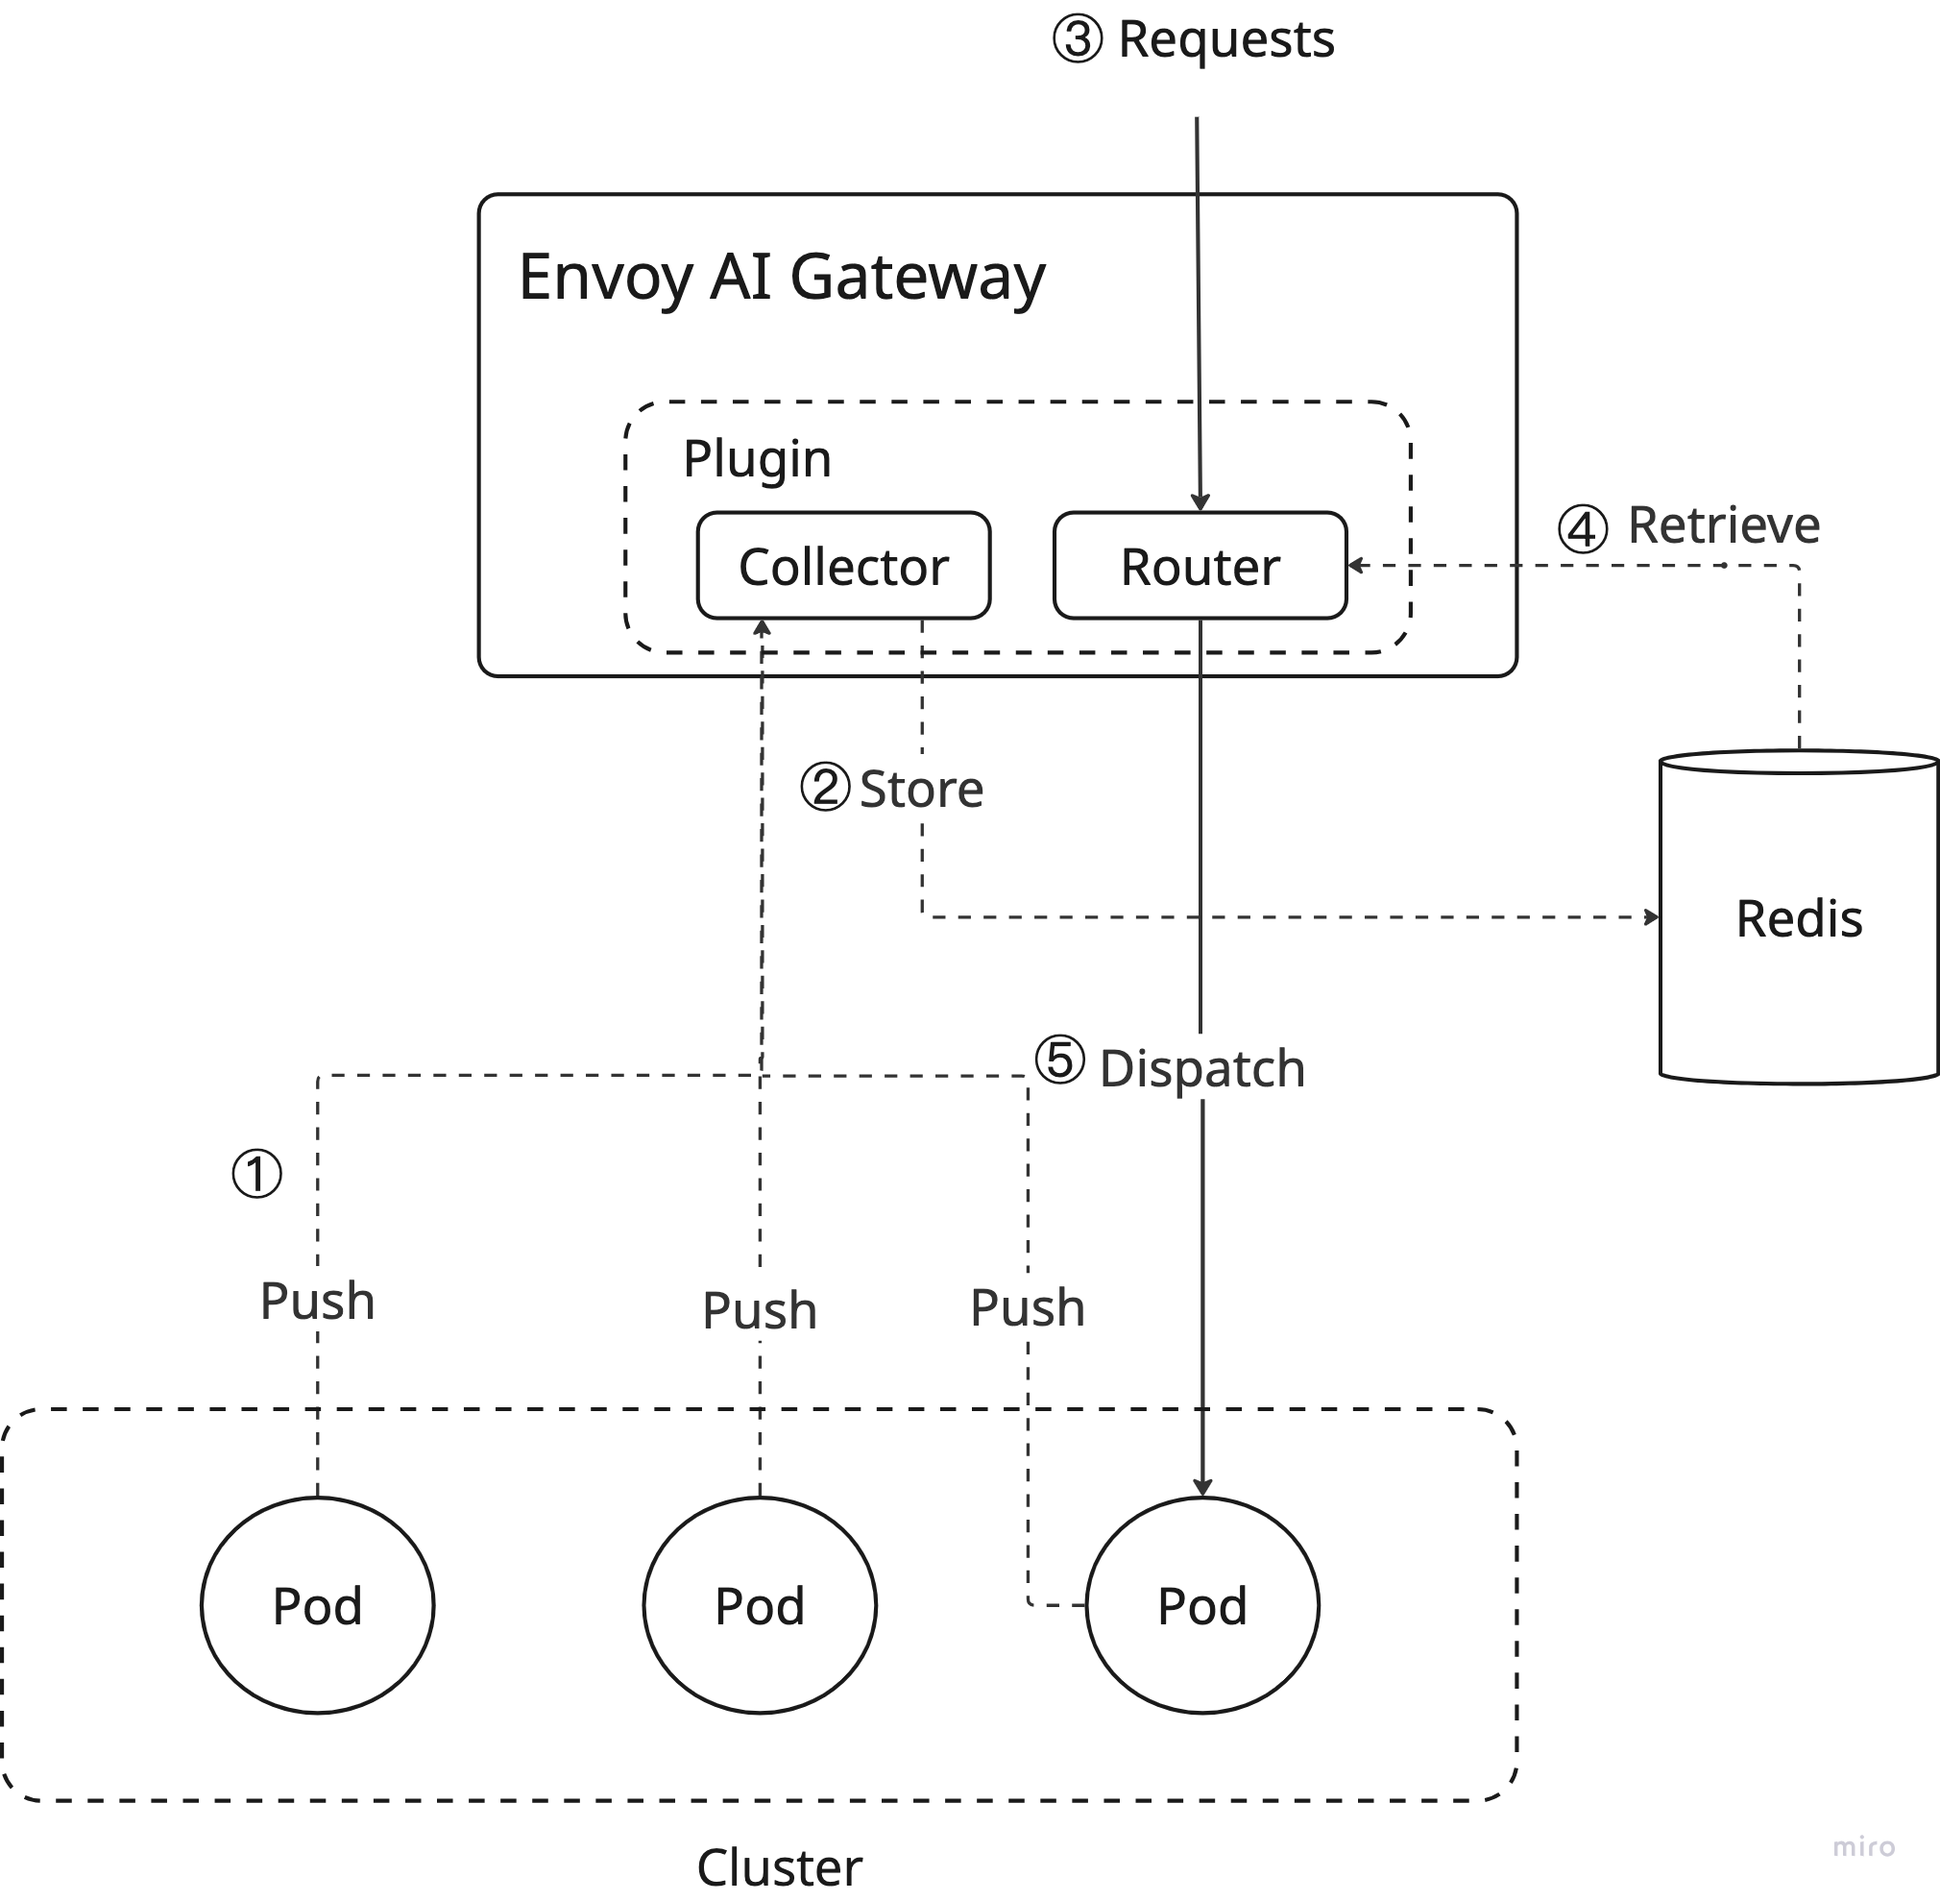
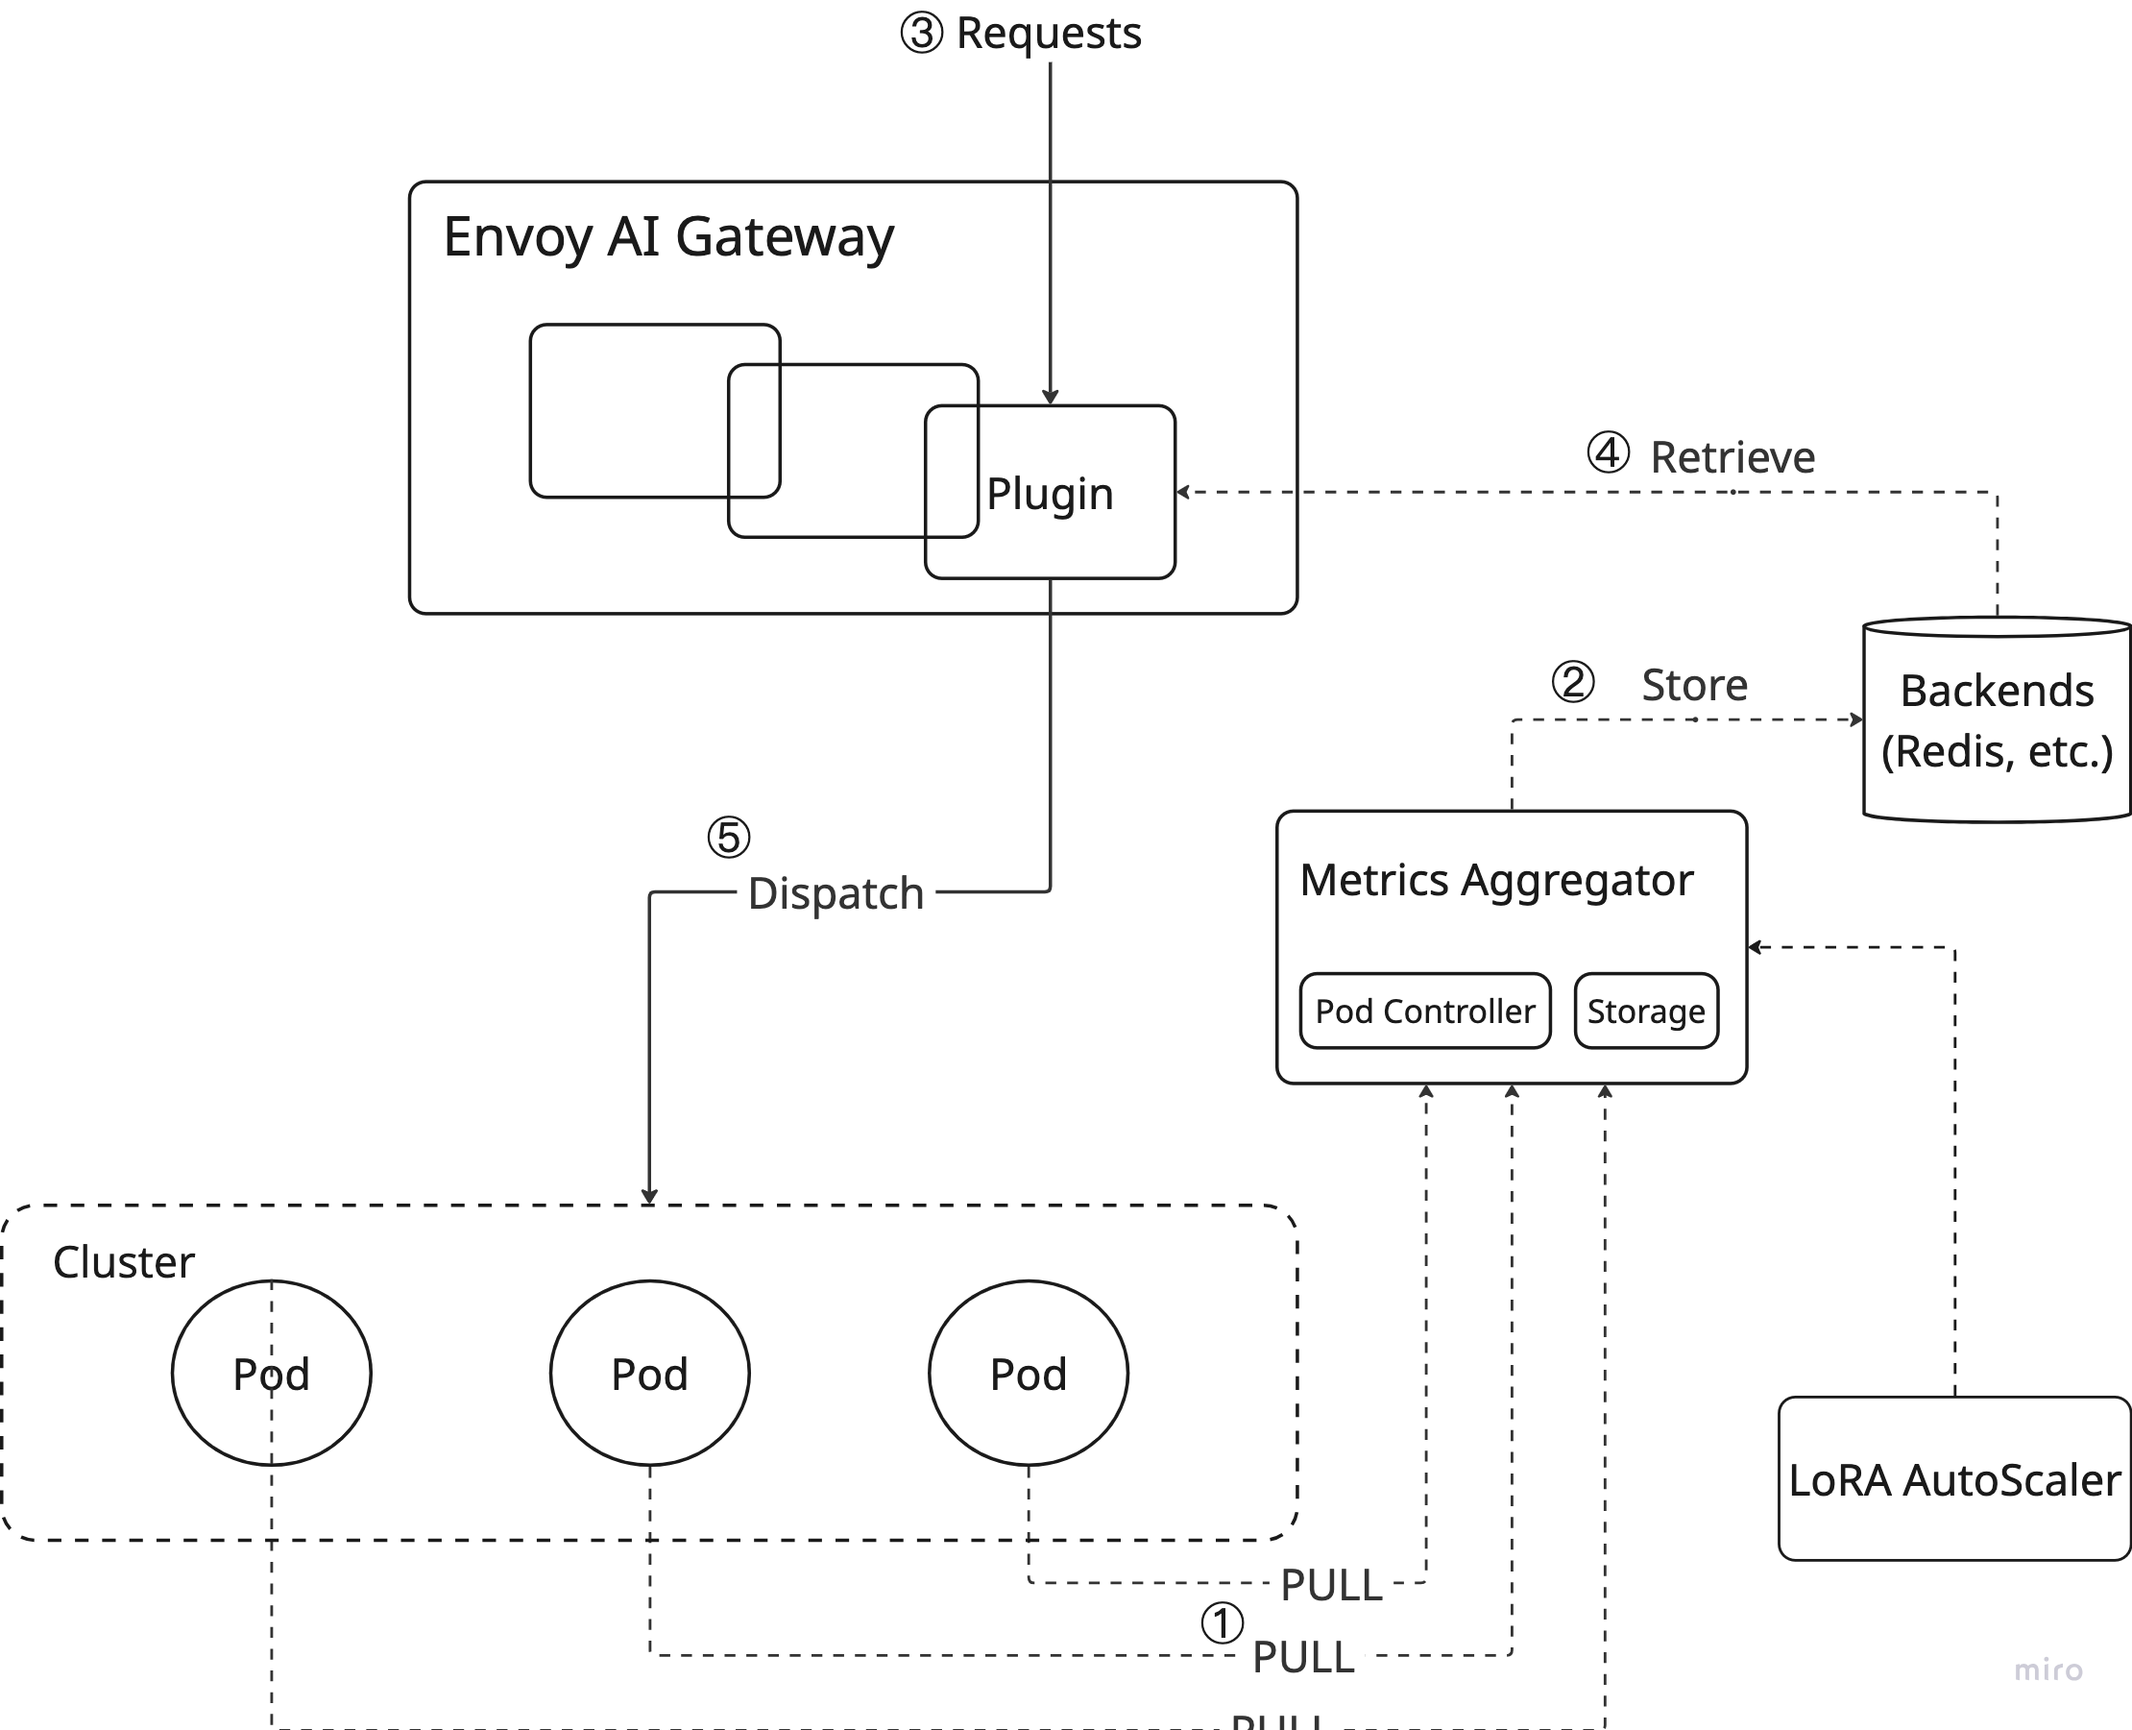
Udpate

diff --git a/docs/proposals/376-metric-aggregagor/README.md b/docs/proposals/376-metric-aggregagor/README.md
@@ -85,10 +85,9 @@ List the specific goals of the Proposal. What is it trying to achieve? How will 
 know that this has succeeded?
 -->
 
-- A simple implementation with least busy scheduling algorithm
+- A simple implementation with least-latency scheduling algorithm
 - Extensible with different consumers in the cluster, like the Lora autoscaler or the ai gateway
 - Metrics visualization support, like Grafana
-- Metric management support, especially the gc policy
 
 ### Non-Goals
 
@@ -97,7 +96,7 @@ What is out of scope for this Proposal? Listing non-goals helps to focus discuss
 and make progress.
 -->
 
-- Different scheduling algorithm implementations in ai gateway
+- Different scheduling algorithm implementations in ai gateway, like prefix-cache aware
 - LoRA aware scheduling implementation, will be left to another KEP
 - Performance consideration in big clusters should be left to the Beta level
 
@@ -123,7 +122,7 @@ bogged down.
 
 #### Story 1
 
-As a user, I hope my LLM request could be routed to the least-busy instance, so that I can get the result as soon as possible.
+As a user, I hope my LLM request could be routed to the least-latency instance, so that I can get the result as soon as possible.
 
 #### Story 2
 
@@ -138,7 +137,8 @@ Go in to as much detail as necessary here.
 This might be a good place to talk about core concepts and how they relate.
 -->
 
-Metrics-based routing should meet the baseline requirements: even the metrics are unavailable or outdated, the system should still be able to work, despite the fact that the request response may be slower. For example, metrics-based lora scheduling is unfit here because once the metric indicates the wrong instance, we may hit 500 server error, it's unacceptable.
+- Metrics-based routing should meet the baseline requirements: even the metrics are unavailable or outdated, the system should still be able to work, despite the fact that the request response may be slower. For example, metrics-based lora scheduling maybe unfit here because once the metric indicates the wrong instance, we may hit 500 server error, it's unacceptable. Unless the inference engine will fetch the models dynamically.
+- Once the gateway picks the Pod for scheduling, it could happen that the Pod suddenly becomes unavailable, we should support fallback mechanism to default service routing.
 
 ### Risks and Mitigations
 
@@ -174,25 +174,40 @@ The overall flow looks like:
 
 Let's break down the flow into several steps:
 
-- Step 1: we'll collect the metrics from the inference workloads, we choose `PUSH` mode here just to put less pressure on the gateway side, or the gateway will have iterate all the Pods which obviously will lead to performance issues.
-- Step 2: the gateway plugin will parse the metrics and store them in the redis, this is for HA consideration and cache sharing. Once the instance is down, we can still retrieve the metrics from redis. And if we have multiple instances, we can share the metrics with each other via redis. Considering Envoy AI gateway already uses Redis for limit rating, we'll reuse the Redis here.
-- Step 3 & 4: Traffic comes, and the Router will retrieve the metrics from Redis and make routing decisions based on different algorithms, like queue size aware scheduling.
+- Step 1: we'll collect the metrics from the inference workloads in metrics aggregator.
+- Step 2: the aggregator will parse the metrics and store them in the redis, this is for HA consideration and cache sharing. Once the instance is down, we can still retrieve the metrics from redis. And if we have multiple instances, we can share the metrics with each other via redis. Considering Envoy AI gateway already uses Redis for limit rating, we'll reuse the Redis here.
+- Step 3 & 4: Traffic comes, the gateway plugin (we'll call it router later) will retrieve the metrics from Redis and make routing decisions based on different algorithms, like queue size aware scheduling.
 - Step 5: The router will send the request to the selected instance, and the instance will return the result to the router, return to the user finally.
-
 
 ### Additional components introduced:
 
-- Pod Sidecar: a sidecar container is necessary for each inference workload, which was introduced in Kubernetes 1.28 as alpha feature, and enabled by default in 1.29, see [details](https://kubernetes.io/blog/2023/08/25/native-sidecar-containers/). The sidecar will be responsible for collecting the metrics and pushing them to the AI gateway. Let's set the interval time to 100ms at first.
-- Redis: a Redis instance is necessary for the metrics storage and sharing, we can use the existing Redis instance in the cluster, or deploy a new one if not available.
-- Gateway Plugin: a new plugin or [DynamicLoadBalancingBackend](https://github.com/envoyproxy/ai-gateway/blob/be2b479b04bc7a219b0c8239143bfbabebdcd615/filterapi/filterconfig.go#L199-L208) specifically in Envoy AI gateway to pick the best-fit Pod endpoints. However, we may block by the upstream issue [here](https://github.com/envoyproxy/ai-gateway/issues/604), we'll work with the Envoy AI Gateway team to resolve it ASAP. Maybe the final design will impact our implementation a bit but not much I think.
+- Metrics Aggregator (MA): MA is working as the controller plane to sync the metrics, this is also one of the reason why we want to decouple it from the router, which working as a data plane. MA has several components:
+  - A Pod controller to manage the Pod lifecycle, for example, once a Pod is ready, it will add it to the internal store, and each Pod will fork a background goroutine to sync the metrics continuously, 50ms interval by default. Once the Pod is deleted, the goroutine will be stopped and removed from the store.
+  - A internal store to parse the metric results, and store it in the backend storage, like Redis.
+- Redis: a Redis instance is necessary for the metrics storage and sharing, we can use the existing Redis instance in the cluster, or deploy a new one if necessary. We should have storage interface to support different backends in the future.
+- Router: a new router or [DynamicLoadBalancingBackend](https://github.com/envoyproxy/ai-gateway/blob/be2b479b04bc7a219b0c8239143bfbabebdcd615/filterapi/filterconfig.go#L199-L208) specifically in Envoy AI gateway to pick the best-fit Pod endpoints. However, we may block by the upstream issue [here](https://github.com/envoyproxy/ai-gateway/issues/604), we'll work with the Envoy AI Gateway team to resolve it ASAP. Maybe the final design will impact our implementation a bit but not much I think.
 
 ### Data Structure
 
 The data structure could be varied based on the metrics we want to collect, let's take the queue size as an example:
 
-Because redis is a kv store, we'll use the ZSET to store the results, `LeastBusy::ModelName` as the key, Pod name as the member and the (runningQueueSize * 0.3 + waitingQueueSize * 0.7) as the score, the factor of waitingQueueSize is higher because metric is a delayed indicator. RunningQueueSize and WaitingQueueSize are two metrics most of the inference engines support.
+Because redis is a kv store, we'll use the ZSET to store the results, `LeastLatency::ModelName` as the key, Pod name as the member and the (runningQueueSize * 0.3 + waitingQueueSize * 0.7) as the score, the factor of waitingQueueSize is higher because metric is a delayed indicator. RunningQueueSize and WaitingQueueSize are two metrics most of the inference engines support.
 
-Also set the expiration time to 500ms just in case the metric reporting is delayed and lead to the hotspot issue.
+We'll also have another key to record the update timestamp. For example, a Pod named "default/fake-pod" with the score = 0.5, the set commands look like:
+
+```bash
+# set the update timestamp
+SET default/fake-pod "2025-05-12T06:16:27Z"
+
+# set the score
+ZADD LeastLatency::ModelName 0.5 default/fake-pod
+```
+
+When collecting, we'll update the timestamp and score together. Setting the top 5 is enough for us to help reduce the storage pressure since it's a memory-based database. We don't use the expiration key here is just because most of the time, the metrics should be updated at a regular interval.
+
+When retrieving, we'll first query the ZSET to get the top 5 records, and iterate them one by one to verify that `currentTimestamp - recordTimestamp < 5s`, if not, skipping to the next one. This is to avoid outdated metrics. Once picked the exact endpoint, we'll reset the score with waitingQueueSize + 1 to avoid hotspot issues, especially when metrics update is blocked by some reasons.
+
+If all metrics are outdated, we'll fallback to the default service.
 
 Note: the algorithm is not the final one, we'll have more discussions with the community to find the best one.
 
@@ -293,8 +308,10 @@ milestones with these graduation criteria:
 
 Beta:
 
-- No performance issues in big clusters, we may user daemonset to report metrics.
-- Other storages rather than KV store who supports only key-value pairs which might be not enough for more complex scenarios.
+- Other storages rather than KV store who supports only key-value pairs which might be not enough for more complex scenarios, like the prefix-cache aware scenario.
+- HA support, once the metrics aggregator is down, the system should still work.
+- No performance issues in big clusters, we may use daemonsets to report metrics.
+- Once the picked Pod is down after the routing decision, router will fallback to the default service. Fallback mode is already supported in Envoy AI gateway.
 
 ## Implementation History
 
@@ -324,3 +341,5 @@ What other approaches did you consider, and why did you rule them out? These do
 not need to be as detailed as the proposal, but should include enough
 information to express the idea and why it was not acceptable.
 -->
+
+- When collecting metrics from the inference workloads, `PUSH` mode will put less pressure on the gateway side, or the gateway will have iterate all the Pods which obviously will lead to performance issues. We didn't pick the approach because it will either add additional load to the inference workload and introduces more complexity to the system. The current approach will fork as much goroutines as the number of inference workloads to sync the metrics in parallel, this is feasible because goroutine is lightweight. Once the metrics aggregator becomes the bottleneck, we can consider to use `PUSH` mode at node level.
